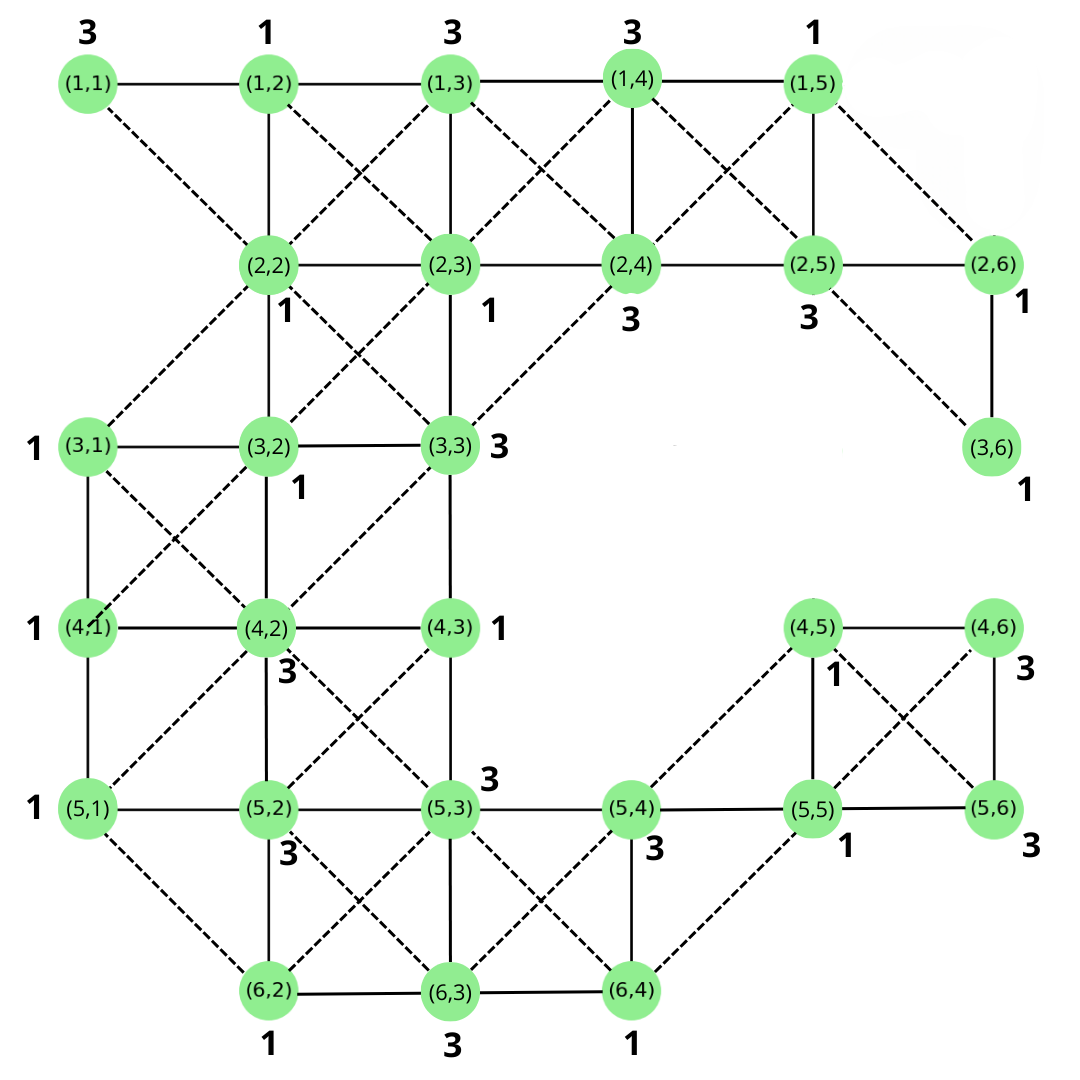
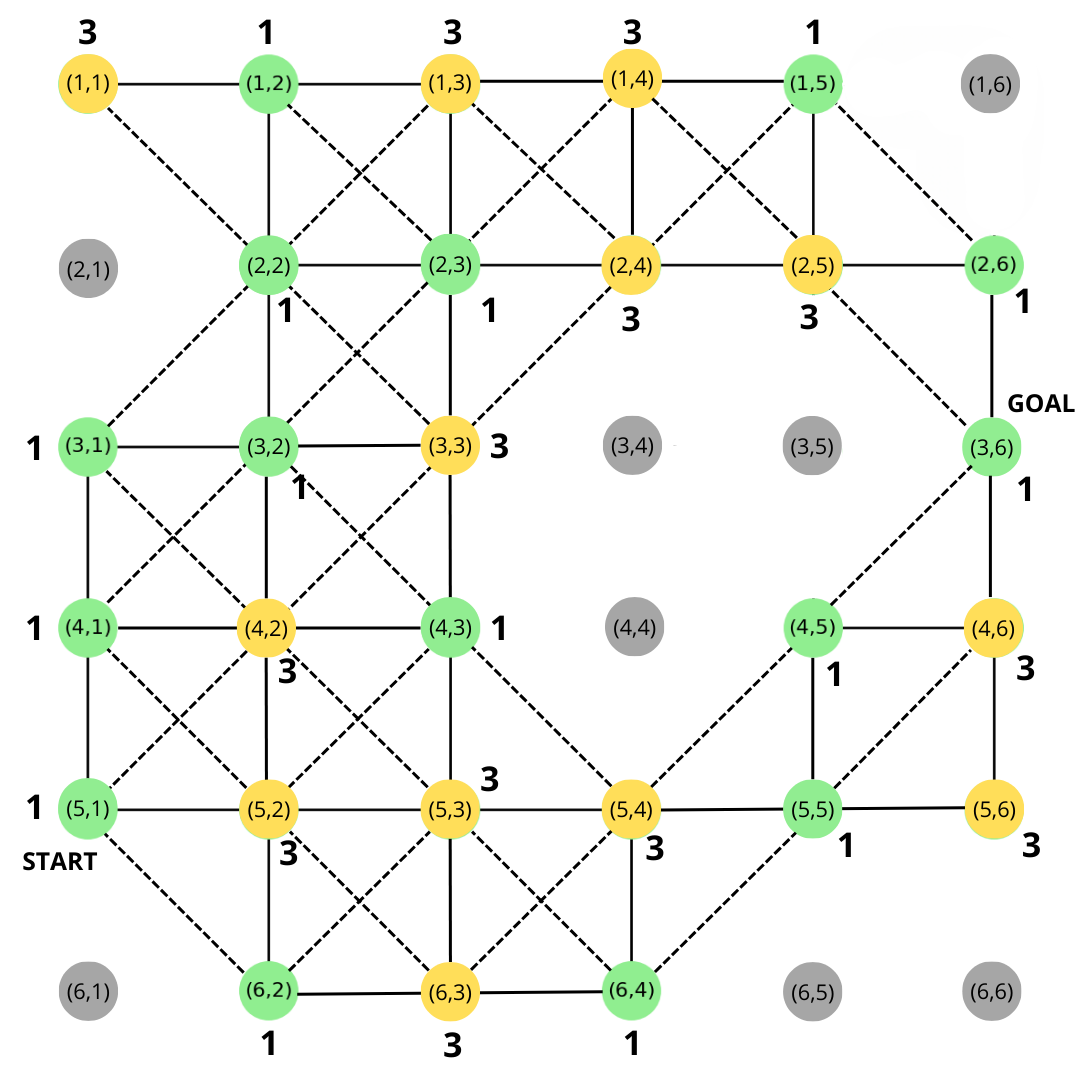
bug fixes

diff --git a/Agent/RoverProblem.py b/Agent/RoverProblem.py
@@ -1,13 +1,12 @@
-from Util import print_grid, print_route
+from Util import print_route
 
 import time
 import heapq
 
 class Node:
-    def __init__(self, position, parent=None, action=None, cost = 0, path_cost=0):
+    def __init__(self, position, parent=None, cost = 0, path_cost=0):
         self.position = position
         self.parent = parent
-        self.action = action
         self.cost = cost
         self.path_cost = path_cost
 
@@ -31,8 +30,8 @@ def reconstruct_path(node):
     path_cost.reverse()
     return path, path_cost
 
-def manhatan_distance(pos, goal, cost):
-        return (abs(pos[0] - goal[0]) + abs(pos[1] - goal[1]))*cost
+def manhatan_distance(pos, goal):
+        return (abs(pos[0] - goal[0]) + abs(pos[1] - goal[1]))
 
 def get_neighbors(pos):
     neighbors = []
@@ -48,7 +47,7 @@ def get_neighbors(pos):
 def find_exit():
 
     start_node = Node(start, path_cost=0)
-    frontier = [(manhatan_distance(start, goal, start_node.cost), start_node)]
+    frontier = [(manhatan_distance(start, goal), start_node)]
     heapq.heapify(frontier) #Convierte la lista frontier en una cola de prioridad (heap)
     reached = {start: start_node}
 
@@ -66,20 +65,20 @@ def find_exit():
                 new_cost = node.path_cost + 1
             if neighbor not in reached or new_cost < reached[neighbor].path_cost:
                 reached[neighbor] = Node(neighbor, parent=node, cost=node_cost, path_cost=new_cost)
-                heapq.heappush(frontier, (manhatan_distance(neighbor, goal, node_cost), reached[neighbor]))
+                heapq.heappush(frontier, (manhatan_distance(neighbor, goal)+new_cost, reached[neighbor]))
 
     return None  # No se encontró salida
 
-start = (1, 2)
-goal = (5, 5)
+start = (5, 1)
+goal = (3, 6)
 
 grid = [
     ['#', '#', '#', '#', '#', '#', '#', '#'],
     ['#', '▲', ' ', '▲', '▲', ' ', '#', '#'],
     ['#', '#', ' ', ' ', '▲', '▲', ' ', '#'],
-    ['#', ' ', ' ', '▲', '#', '#', ' ', '#'],
+    ['#', ' ', ' ', '▲', '#', '#', 'E', '#'],
     ['#', ' ', '▲', ' ', '#', ' ', '▲', '#'],
-    ['#', ' ', '▲', '▲', '▲', ' ', '▲', '#'],
+    ['#', 'S', '▲', '▲', '▲', ' ', '▲', '#'],
     ['#', '#', ' ', '▲', ' ', '#', '#', '#'],
     ['#', '#', '#', '#', '#', '#', '#', '#'],
 ]
@@ -99,8 +98,10 @@ start_time = time.perf_counter()
 problem = Problem(start, goal, actions)
 solution = find_exit()
 end_time = time.perf_counter()
-
-print(f"A solution was found in: {(end_time - start_time)*1000:.8f} milliseconds")
-key = input("Press enter to continue with the route animation: ")
-if key == "":
-    print_route(grid, solution)
+if solution:
+    print(f"A solution was found in: {(end_time - start_time)*1000:.8f} milliseconds")
+    key = input("Press enter to continue with the route animation: ")
+    if key == "":
+        print_route(grid, solution)
+else:
+    print("There's no solution for this problem")

diff --git a/Agent/Util.py b/Agent/Util.py
@@ -17,11 +17,14 @@ def print_grid(grid, sep="  "):
         print(sep.join(row))
 
 def print_route(grid, path):
+    clear_console()
     steps = "Route: "
     for i, step in enumerate(path[0]):
 
         print('Total energy consumed: ', path[1][i])
         print('Total nodes explored: ', i)
+
+        newgrid = grid
 
         if i == 0:
             steps = steps + str(step)
@@ -29,9 +32,8 @@ def print_route(grid, path):
         else: 
             steps = steps + ' --> ' +  str(step)
             print(steps)
-
-        newgrid = grid
-        newgrid[step[0]][step[1]] = 'R'
+            newgrid[step[0]][step[1]] = 'R'
+        
         print_grid(newgrid)
 
         if i == len(path[0]) - 1:
